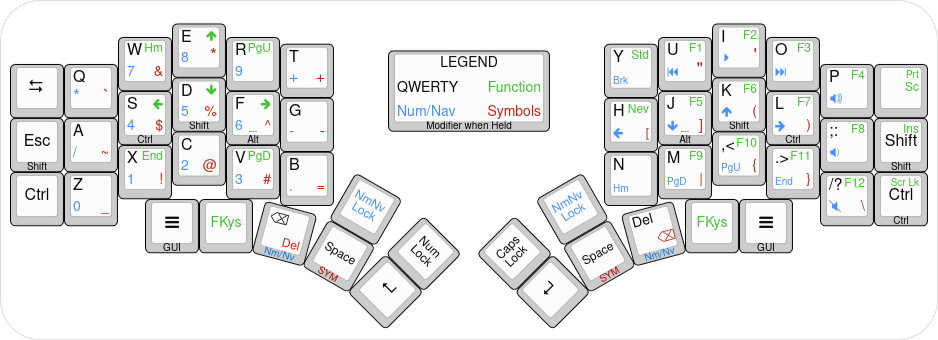
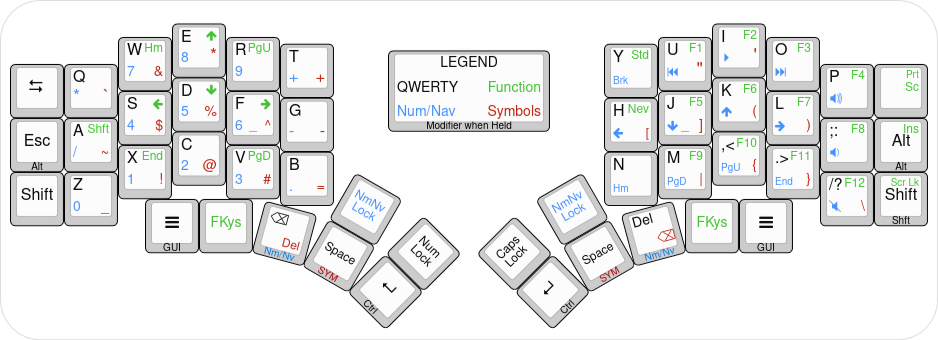
Move func shift and correct layout json & png.

diff --git a/keyboards/splitkb/kyria/keymaps/nevp/keymap.c b/keyboards/splitkb/kyria/keymaps/nevp/keymap.c
@@ -37,103 +37,39 @@ enum layers {
 #define NUMNEV   TG(_NUMNAV_NEV)
 #define FKYNEV   MO(_FUNCTION_NEV)
 
-#define SFT_ESC MT(MOD_LSFT, KC_ESC)
+#define ALT_ESC MT(MOD_LALT, KC_ESC)
 
 // For Thumb Cluster
-#define GUI_MNU MT(MOD_LGUI, KC_APP)
-#define NUM_DEL LT(_NUMNAV, KC_DEL)
-#define NUM_BSP LT(_NUMNAV, KC_BSPC)
-#define SYM_SPC LT(_SYMBOL, KC_SPC)
-#define NUM_D_N LT(_NUMNAV_NEV, KC_DEL)
-#define NUM_B_N LT(_NUMNAV_NEV, KC_BSPC)
-#define SYM_S_N LT(_SYMBOL_NEV, KC_SPC)
+#define LCTL_ENT MT(MOD_LCTL, KC_ENT)
+#define RCTL_ENT MT(MOD_RCTL, KC_ENT)
+#define  GUI_MNU MT(MOD_LGUI, KC_APP)
+#define  NUM_DEL LT(_NUMNAV, KC_DEL)
+#define  NUM_BSP LT(_NUMNAV, KC_BSPC)
+#define  SYM_SPC LT(_SYMBOL, KC_SPC)
+#define  NUM_D_N LT(_NUMNAV_NEV, KC_DEL)
+#define  NUM_B_N LT(_NUMNAV_NEV, KC_BSPC)
+#define  SYM_S_N LT(_SYMBOL_NEV, KC_SPC)
 
 // For QWERTY layer
-#define CTL_S    MT(MOD_LCTL, KC_S)
-#define SFT_D    MT(MOD_LSFT, KC_D)
-#define ALT_F    MT(MOD_LALT, KC_F)
-#define ALT_J    MT(MOD_LALT, KC_J)
-#define SFT_K    MT(MOD_RSFT, KC_K)
-#define CTL_L    MT(MOD_RCTL, KC_L)
 
 // For QWERTY_NEV layer
-#define ALT_H    MT(MOD_LALT, KC_H)
-#define SFT_J    MT(MOD_RSFT, KC_J)
-#define CTL_K    MT(MOD_RCTL, KC_K)
-#define SFT_SC   MT(MOD_RSFT, KC_SCLN)
-#define CTL_SL   MT(MOD_RCTL, KC_SLSH)
+#define ALT_SC   MT(MOD_RALT, KC_SCLN)
+#define SFT_SL   MT(MOD_RSFT, KC_SLSH)
 
 // For NUMNAV layer
-#define CTL_P4   MT(MOD_LCTL, KC_P4)
-#define SFT_P5   MT(MOD_LSFT, KC_P5)
-#define ALT_P6   MT(MOD_LALT, KC_P6)
-#define ALT_DWN  MT(MOD_LALT, KC_DOWN)
-#define SFT_UP   MT(MOD_RSFT, KC_UP)
-#define CTL_RGT  MT(MOD_RCTL, KC_RGHT)
 
 // For NUMNAV_NEV layer
-#define ALT_LFT  MT(MOD_LALT, KC_LEFT)
-#define SFT_DWN  MT(MOD_RSFT, KC_DOWN)
-#define CTL_UP   MT(MOD_RCTL, KC_UP)
-#define SFT_VLD  MT(MOD_RSFT, KC_VOLD)
+#define ALT_VLD  MT(MOD_RALT, KC_VOLD)
+#define SFT_MUT  MT(MOD_RSFT, KC_MUTE)
 
 // For SYMBOL layer
-#define CTL_DLR  MT(MOD_LCTL, KC_DLR)
-#define SFT_PRC  MT(MOD_LSFT, KC_PERC)
-#define ALT_CRC  MT(MOD_LALT, KC_CIRC)
-#define ALT_RBR  MT(MOD_LALT, KC_RBRC)
-#define SFT_LPN  MT(MOD_LSFT, KC_LPRN)
-#define CTL_RPN  MT(MOD_RCTL, KC_RPRN)
 
 // For SYMBOL_NEV layer
-#define ALT_LBR  MT(MOD_LALT, KC_LBRC)
-#define SFT_RBR  MT(MOD_LSFT, KC_RBRC)
-#define CTL_LPN  MT(MOD_RCTL, KC_LPRN)
-#define CTL_BSL  MT(MOD_RCTL, KC_BSLS)
+#define SFT_BSL  MT(MOD_RSFT, KC_BSLS)
 
 // For FUNCTION layer
-#define CTL_LFT  MT(MOD_LCTL, KC_LEFT)
-#define ALT_RGT  MT(MOD_LALT, KC_RGHT)
-#define ALT_F5   MT(MOD_LALT, KC_F5)
-#define SFT_F6   MT(MOD_LSFT, KC_F6)
-#define CTL_F7   MT(MOD_RCTL, KC_F7)
-#define SFT_INS  MT(MOD_RSFT, KC_INS)
-#define CTL_SCL   MT(MOD_RCTL, KC_SCRL)
-
-// Note:
-// The notation `mod/tap` denotes a key that activates the modifier `mod` when held down, and
-// produces the key `tap` when tapped (i.e. pressed and released).
-
-// Intercepts non-basic keycodes for use with mod-tap.
-bool process_record_user(uint16_t keycode, keyrecord_t *record) {
-    switch (keycode) {
-        case CTL_DLR:
-            if (record->tap.count && record->event.pressed) {
-                tap_code16(KC_DLR); // Send KC_DLR on tap
-                return false;        // Return false to ignore further processing of key
-            }
-            break;
-        case SFT_PRC:
-            if (record->tap.count && record->event.pressed) {
-                tap_code16(KC_PERC); // Send KC_PERC on tap
-                return false;        // Return false to ignore further processing of key
-            }
-            break;
-        case ALT_CRC:
-            if (record->tap.count && record->event.pressed) {
-                tap_code16(KC_CIRC); // Send KC_CIRC on tap
-                return false;        // Return false to ignore further processing of key
-            }
-            break;
-        case CTL_LPN:
-            if (record->tap.count && record->event.pressed) {
-                tap_code16(KC_LPRN); // Send KC_LPRN on tap
-                return false;        // Return false to ignore further processing of key
-            }
-            break;
-    }
-    return true;
-}
+#define ALT_INS  MT(MOD_RALT, KC_INS)
+#define SFT_SCL  MT(MOD_RSFT, KC_SCRL)
 
 // clang-format off
 const uint16_t PROGMEM keymaps[][MATRIX_ROWS][MATRIX_COLS] = {
@@ -143,9 +79,9 @@ const uint16_t PROGMEM keymaps[][MATRIX_ROWS][MATRIX_COLS] = {
  * ,-------------------------------------------.                              ,-----------------------------------------.
  * |  Tab   |   Q  |   W  |   E  |   R  |   T  |                              |   Y  |   U  |   I  |   O  |   P  |      |
  * |--------+------+------+------+------+------|                              |------+------+------+------+------+------|
- * |Shft/Esc| GUI/A| Alt/S|Ctrl/D|Shft/F|   G  |                              |   H  | Alt/J|Shft/K| GUI/L|Ctl/;:| Shft |
+ * | Alt/Esc|   A  |   S  |   D  |   F  |   G  |                              |   H  |   J  |   K  |   L  |   ;: |  Alt |
  * |--------+------+------+------+------+------+-------------.  ,-------------+------+------+------+------+------+------|
- * |  CTRL  |   Z  |   X  |   C  |   V  |   B  |NumNav| NumLk|  |CapsLk|NumNav|   N  |   M  | ,  < | . >  | /  ? | CTRL |
+ * |  SHFT  |   Z  |   X  |   C  |   V  |   B  |NumNav| NumLk|  |CapsLk|NumNav|   N  |   M  | ,  < | . >  | / ?  | Shft |
  * |        |      |      |      |      |      | Lock |      |  |      | Lock |      |      |      |      |      |      |
  * `----------------------+------+------+------+------+------|  |------+------+------+------+------+--------------------'
  *                        | GUI/ |F-Keys|NUMNAV| SYM/ | Enter|  | Enter| SYM/ |NUMNAV|F-Keys| GUI/ |
@@ -153,10 +89,10 @@ const uint16_t PROGMEM keymaps[][MATRIX_ROWS][MATRIX_COLS] = {
  *                        `----------------------------------'  `----------------------------------'
  */
     [_QWERTY] = LAYOUT(
-      KC_TAB,   KC_Q,   KC_W,   KC_E,   KC_R,   KC_T,                                      KC_Y,   KC_U,   KC_I,   KC_O,   KC_P,XXXXXXX,
-     SFT_ESC,   KC_A,  CTL_S,  SFT_D,  ALT_F,   KC_G,                                      KC_H,  ALT_J,  SFT_K,  CTL_L,KC_SCLN,KC_RSFT,
-     KC_LCTL,   KC_Z,   KC_X,   KC_C,   KC_V,   KC_B, NUMNAV, KC_NUM,    KC_CAPS,NUMNAV,   KC_N,   KC_M,KC_COMM, KC_DOT,KC_SLSH,KC_RCTL,
-                            GUI_MNU, FKYNEV,NUM_BSP,SYM_SPC, KC_ENT,    KC_ENT,SYM_SPC,NUM_DEL, FKYNEV,GUI_MNU
+      KC_TAB,   KC_Q,   KC_W,   KC_E,   KC_R,   KC_T,                                       KC_Y,   KC_U,   KC_I,   KC_O,   KC_P,XXXXXXX,
+     ALT_ESC,   KC_A,   KC_S,   KC_D,   KC_F,   KC_G,                                       KC_H,   KC_J,   KC_K,   KC_L,KC_SCLN,KC_RALT,
+     KC_LSFT,   KC_Z,   KC_X,   KC_C,   KC_V,   KC_B, NUMNAV, KC_NUM,    KC_CAPS, NUMNAV,   KC_N,   KC_M,KC_COMM, KC_DOT,KC_SLSH,KC_RSFT,
+                             GUI_MNU, FKYNEV,NUM_BSP,SYM_SPC,LCTL_ENT,  RCTL_ENT,SYM_SPC,NUM_DEL, FKYNEV,GUI_MNU
     ),
 
 /*
@@ -165,20 +101,20 @@ const uint16_t PROGMEM keymaps[][MATRIX_ROWS][MATRIX_COLS] = {
  * ,-------------------------------------------.                              ,-----------------------------------------.
  * |  Tab   |   Q  |   W  |   E  |   R  |   T  |                              |      |   Y  |   U  |   I  |   O  |   P  |
  * |--------+------+------+------+------+------|                              |------+------+------+------+------+------|
- * |Shft/Esc| GUI/A| Alt/S|Ctrl/D|Shft/F|   G  |                              |      | Alt/H|Shft/J| GUI/K|Ctrl/L|Sft/;:|
+ * | Alt/Esc|   A  |   S  |   D  |   F  |   G  |                              |      |   H  |   J  |   K  |   L  |Alt/;:|
  * |--------+------+------+------+------+------+-------------.  ,-------------+------+------+------+------+------+------|
- * |  CTRL  |   Z  |   X  |   C  |   V  |   B  |NumNav| NumLk|  |CapsLk|NumNav|      |   N  |   M  | ,  < | . >  | / ?  |
- * |        |      |      |      |      |      | Lock |      |  |      | Lock |      |      |      |      |      |/CTRL |
+ * |  SHFT  |   Z  |   X  |   C  |   V  |   B  |NumNav| NumLk|  |CapsLk|NumNav|      |   N  |   M  | ,  < | . >  | Shft/|
+ * |        |      |      |      |      |      | Lock |      |  |      | Lock |      |      |      |      |      | / ?  |
  * `----------------------+------+------+------+------+------|  |------+------+------+------+------+--------------------'
  *                        | GUI/ |F-Keys|NUMNAV| SYM/ | Enter|  | Enter| SYM/ |NUMNAV|F-Keys| GUI/ |
  *                        | Menu |      |/BkSpc| Space|      |  |      | Space| /Del |      | Menu |
  *                        `----------------------------------'  `----------------------------------'
  */
     [_QWERTY_NEV] = LAYOUT(
-      KC_TAB,   KC_Q,   KC_W,   KC_E,   KC_R,   KC_T,                                   XXXXXXX,   KC_Y,   KC_U,   KC_I,   KC_O,   KC_P,
-     SFT_ESC,   KC_A,  CTL_S,  SFT_D,  ALT_F,   KC_G,                                   XXXXXXX,  ALT_H,  SFT_J,  CTL_K,   KC_L, SFT_SC,
-     KC_LCTL,   KC_Z,   KC_X,   KC_C,   KC_V,   KC_B, NUMNAV, KC_NUM,    KC_CAPS,NUMNAV,XXXXXXX,   KC_N,   KC_M,KC_COMM, KC_DOT, CTL_SL,
-                            GUI_MNU,  FKEYS,NUM_B_N,SYM_S_N, KC_ENT,    KC_ENT,SYM_S_N,NUM_D_N,  FKEYS,GUI_MNU
+      KC_TAB,   KC_Q,   KC_W,   KC_E,   KC_R,   KC_T,                                    XXXXXXX,   KC_Y,   KC_U,   KC_I,   KC_O,   KC_P,
+     ALT_ESC,   KC_A,   KC_S,   KC_D,   KC_F,   KC_G,                                    XXXXXXX,   KC_H,   KC_J,   KC_K,   KC_L, ALT_SC,
+     KC_LSFT,   KC_Z,   KC_X,   KC_C,   KC_V,   KC_B, NUMNAV, KC_NUM,    KC_CAPS, NUMNAV,XXXXXXX,   KC_N,   KC_M,KC_COMM, KC_DOT, SFT_SL,
+                             GUI_MNU,  FKEYS,NUM_B_N,SYM_S_N,LCTL_ENT,  RCTL_ENT,SYM_S_N,NUM_D_N,  FKEYS,GUI_MNU
     ),
 
 /*
@@ -187,8 +123,7 @@ const uint16_t PROGMEM keymaps[][MATRIX_ROWS][MATRIX_COLS] = {
  * ,-------------------------------------------.                              ,-----------------------------------------.
  * |        |   *  |   7  |   8  |   9  |   +  |                              | Break|M Prev|M Play|M Next|VolUp |      |
  * |--------+------+------+------+------+------|                              |------+------+------+------+------+------|
- * |        |Ctrl//| GUI/4|Shft/5| Alt/6|   -  |                              |   ←  | Alt/↓|Shft/↑| GUI/→| Ctrl/|      |
- * |        |      |      |      |      |      |                              |      |      |      |      | VolDn|      |
+ * |        |   /  |   4  |   5  |   6  |   -  |                              |   ←  |   ↓  |   ↑  |   →  |VolDn |      |
  * |--------+------+------+------+------+------+-------------.  ,-------------+------+------+------+------+------+------|
  * |        |   0  |   1  |   2  |   3  |   .  |      |      |  |      |      | Home | PgDn | PgUp |  End |VolMut|      |
  * `----------------------+------+------+------+------+------|  |------+------+------+------+------+--------------------'
@@ -197,7 +132,7 @@ const uint16_t PROGMEM keymaps[][MATRIX_ROWS][MATRIX_COLS] = {
  */
     [_NUMNAV] = LAYOUT(
      _______,KC_PAST,  KC_P7,  KC_P8,  KC_P9,KC_PPLS,                                   KC_BRK ,KC_MPRV,KC_MPLY,KC_MNXT,KC_VOLU,_______,
-     _______,KC_PSLS, CTL_P4, SFT_P5, ALT_P6,KC_PMNS,                                   KC_LEFT,ALT_DWN, SFT_UP,CTL_RGT,KC_VOLD,_______,
+     _______,KC_PSLS,  KC_P4,  KC_P5,  KC_P6,KC_PMNS,                                   KC_LEFT,KC_DOWN,  KC_UP,KC_RGHT,KC_VOLD,_______,
      _______,  KC_P0,  KC_P1,  KC_P2,  KC_P3,KC_PDOT,_______,_______,   _______,_______,KC_HOME,KC_PGDN,KC_PGUP, KC_END,KC_MUTE,_______,
                              _______,_______,_______,_______,_______,   _______,_______,_______,_______,_______
     ),
@@ -208,18 +143,19 @@ const uint16_t PROGMEM keymaps[][MATRIX_ROWS][MATRIX_COLS] = {
  * ,-------------------------------------------.                              ,-----------------------------------------.
  * |        |   *  |   7  |   8  |   9  |   +  |                              |      | Break|M Prev|M Play|M Next|VolUp |
  * |--------+------+------+------+------+------|                              |------+------+------+------+------+------|
- * |        |Ctrl//| GUI/4|Shft/5| Alt/6|   -  |                              |      | Alt/←|Shft/↓| GUI/↑|Ctrl/→|  Sft/|
+ * |        |   /  |   4  |   5  |   6  |   -  |                              |      |   ←  |   ↓  |   ↑  |   →  |  Alt/|
  * |        |      |      |      |      |      |                              |      |      |      |      |      | VolDn|
  * |--------+------+------+------+------+------+-------------.  ,-------------+------+------+------+------+------+------|
- * |        |   0  |   1  |   2  |   3  |   .  |      |      |  |      |      |      | Home | PgDn | PgUp |  End |VolMut|
+ * |        |   0  |   1  |   2  |   3  |   .  |      |      |  |      |      |      | Home | PgDn | PgUp |  End |  Sft/|
+ * |        |      |      |      |      |      |                              |      |      |      |      |      |VolMut|
  * `----------------------+------+------+------+------+------|  |------+------+------+------+------+--------------------'
  *                        |      |      |      |      |      |  |      |      |      |      |      |
  *                        `----------------------------------'  `----------------------------------'
  */
     [_NUMNAV_NEV] = LAYOUT(
      _______,KC_PAST,  KC_P7,  KC_P8,  KC_P9,KC_PPLS,                                   _______,KC_BRK ,KC_MPRV,KC_MPLY,KC_MNXT,KC_VOLU,
-     _______,KC_PSLS, CTL_P4, SFT_P5, ALT_P6,KC_PMNS,                                   _______,ALT_LFT,SFT_DWN, CTL_UP,KC_RGHT,SFT_VLD,
-     _______,  KC_P0,  KC_P1,  KC_P2,  KC_P3,KC_PDOT,_______,_______,   _______,_______,_______,KC_HOME,KC_PGDN,KC_PGUP, KC_END,KC_MUTE,
+     _______,KC_PSLS,  KC_P4,  KC_P5,  KC_P6,KC_PMNS,                                   _______,KC_LEFT,KC_DOWN,  KC_UP,KC_RGHT,ALT_VLD,
+     _______,  KC_P0,  KC_P1,  KC_P2,  KC_P3,KC_PDOT,_______,_______,   _______,_______,_______,KC_HOME,KC_PGDN,KC_PGUP, KC_END,SFT_MUT,
                              _______,_______,_______,_______,_______,   _______,_______,_______,_______,_______
     ),
 
@@ -229,7 +165,7 @@ const uint16_t PROGMEM keymaps[][MATRIX_ROWS][MATRIX_COLS] = {
  * ,-------------------------------------------.                              ,-----------------------------------------.
  * |    `   |   `  |   &  |   *  |      |   +  |                              |      |   "  |   '  |      |      |      |
  * |--------+------+------+------+------+------|                              |------+------+------+------+------+------|
- * |        |Ctrl/~| GUI/#|Shft/%| Alt/^|   -  |                              |   [  | Alt/]|Shft/(| GUI/)| Ctrl |      |
+ * |        |   ~  |   #  |   %  |   ^  |   -  |                              |   [  |   ]  |   (  |   )  |      |      |
  * |--------+------+------+------+------+------+-------------.  ,-------------+------+------+------+------+------+------|
  * |        |   _  |   !  |   @  |   $  |   =  |      |      |  |      |      |      |  |   |  {   |  }   |  \   |      |
  * `----------------------+------+------+------+------+------|  |------+------+------+------+------+--------------------'
@@ -239,7 +175,7 @@ const uint16_t PROGMEM keymaps[][MATRIX_ROWS][MATRIX_COLS] = {
  */
     [_SYMBOL] = LAYOUT(
      _______, KC_GRV,KC_AMPR,KC_ASTR,XXXXXXX,KC_PLUS,                                   XXXXXXX,KC_DQUO,KC_QUOT,XXXXXXX,XXXXXXX,_______,
-     _______,KC_TILD,CTL_DLR,SFT_PRC,ALT_CRC,KC_MINS,                                   KC_LBRC,ALT_RBR,SFT_LPN,CTL_RPN,XXXXXXX,_______,
+     _______,KC_TILD, KC_DLR,KC_PERC,KC_CIRC,KC_MINS,                                   KC_LBRC,KC_RBRC,KC_LPRN,KC_RPRN,XXXXXXX,_______,
      _______,KC_UNDS,KC_EXLM, KC_AT ,KC_HASH, KC_EQL,_______,_______,   _______,_______,XXXXXXX,KC_PIPE,KC_LCBR,KC_RCBR,KC_BSLS,_______,
                              _______,_______,NUM_DEL,_______,_______,   _______,_______,NUM_BSP,_______,_______
    ),
@@ -250,9 +186,9 @@ const uint16_t PROGMEM keymaps[][MATRIX_ROWS][MATRIX_COLS] = {
  * ,-------------------------------------------.                              ,-----------------------------------------.
  * |    `   |   `  |   &  |   *  |      |   +  |                              |      |      |   "  |   '  |      |      |
  * |--------+------+------+------+------+------|                              |------+------+------+------+------+------|
- * |        |Ctrl/~| GUI/#|Shft/%| Alt/^|   -  |                              |      | Alt/[|Shft/]| GUI/(|Ctrl/)| Shft |
+ * |        |   ~  |   #  |   %  |   ^  |   -  |                              |      |   [  |   ]  |   (  |   )  |  Alt |
  * |--------+------+------+------+------+------+-------------.  ,-------------+------+------+------+------+------+------|
- * |        |   _  |   !  |   @  |   $  |   =  |      |      |  |      |      |      |      |  |   |  {   |  }   |  \   |
+ * |        |   _  |   !  |   @  |   $  |   =  |      |      |  |      |      |      |      |  |   |  {   |  }   |Sft/ \|
  * `----------------------+------+------+------+------+------|  |------+------+------+------+------+--------------------'
  *                        |      |      |NUMNAV|      |      |  |      |      |NUMNAV|      |      |
  *                        |      |      | /Del |      |      |  |      |      |/BkSpc|      |      |
@@ -260,8 +196,8 @@ const uint16_t PROGMEM keymaps[][MATRIX_ROWS][MATRIX_COLS] = {
  */
     [_SYMBOL_NEV] = LAYOUT(
      _______, KC_GRV,KC_AMPR,KC_ASTR,XXXXXXX,KC_PLUS,                                   _______,XXXXXXX,KC_DQUO,KC_QUOT,XXXXXXX,XXXXXXX,
-     _______,KC_TILD,CTL_DLR,SFT_PRC,ALT_CRC,KC_MINS,                                   _______,ALT_LBR,SFT_RBR,CTL_LPN,KC_RPRN,KC_RSFT,
-     _______,KC_UNDS,KC_EXLM, KC_AT ,KC_HASH, KC_EQL,_______,_______,   _______,_______,_______,XXXXXXX,KC_PIPE,KC_LCBR,KC_RCBR,CTL_BSL,
+     _______,KC_TILD, KC_DLR,KC_PERC,KC_CIRC,KC_MINS,                                   _______,KC_LBRC,KC_RBRC,KC_LPRN,KC_RPRN,KC_RALT,
+     _______,KC_UNDS,KC_EXLM, KC_AT ,KC_HASH, KC_EQL,_______,_______,   _______,_______,_______,XXXXXXX,KC_PIPE,KC_LCBR,KC_RCBR,SFT_BSL,
                              _______,_______,NUM_D_N,_______,_______,   _______,_______,NUM_B_N,_______,_______
    ),
 
@@ -271,24 +207,25 @@ const uint16_t PROGMEM keymaps[][MATRIX_ROWS][MATRIX_COLS] = {
  * ,------------------------------------------.                              ,------------------------------------------.
  * |       |      | Home |   ↑  | PgUp |      |                              |QWERTY|  F1  |  F2  |  F3  |  F4  | PrtScr|
  * |-------+------+------+------+------+------|                              |------+------+------+------+------+-------|
- * |       | Ctrl | GUI/←|Shft/↓| Alt/→|      |                              |QWTNev|Alt/F5|Sft/F6|GUI/F7|Ctl/F8|Sft/Ins|
+ * |       | Shft |   ←  |   ↓  |   →  |      |                              |QWTNev|  F5  |  F6  |  F7  |  F8  |Alt/Ins|
  * |-------+------+------+------+------+------+-------------.  ,-------------+------+------+------+------+------+-------|
- * |       |      |  End |      | PgDn |      |      |      |  |      |      |      |  F9  |  F10 |  F11 |  F12 | ScrLk |
+ * |       |      |  End |      | PgDn |      |      |      |  |      |      |      |  F9  |  F10 |  F11 |  F12 |  Sft/ |
+ * |       |      |      |      |      |      |                              |      |      |      |      |      | ScrLk |
  * `---------------------+------+------+------+------+------|  |------+------+------+------+------+---------------------'
  *                       |      |      |      |      |      |  |      |      |      |      |      |
  *                       `----------------------------------'  `----------------------------------'
  */
     [_FUNCTION] = LAYOUT(
      _______,XXXXXXX,KC_HOME,  KC_UP,KC_PGUP,XXXXXXX,                                    QWERTY,  KC_F1,  KC_F2,  KC_F3,  KC_F4,KC_PSCR,
-     _______,KC_LCTL,CTL_LFT,SFT_DWN,ALT_RGT,XXXXXXX,                                    QWTNEV, ALT_F5, SFT_F6, CTL_F7,  KC_F8,SFT_INS,
-     _______,XXXXXXX, KC_END,XXXXXXX,KC_PGDN,XXXXXXX,_______,_______,   _______,_______,_______,  KC_F9, KC_F10, KC_F11, KC_F12,CTL_SCL,
+     _______,KC_LSFT,KC_LEFT,KC_DOWN,KC_RGHT,XXXXXXX,                                    QWTNEV,  KC_F5,  KC_F6,  KC_F7,  KC_F8,ALT_INS,
+     _______,XXXXXXX, KC_END,XXXXXXX,KC_PGDN,XXXXXXX,_______,_______,   _______,_______,_______,  KC_F9, KC_F10, KC_F11, KC_F12,SFT_SCL,
                              _______,_______,_______,_______,_______,   _______,_______,_______,_______,_______
     ),
 
     [_FUNCTION_NEV] = LAYOUT(
      _______,XXXXXXX,KC_HOME,  KC_UP,KC_PGUP,XXXXXXX,                                    QWERTY,  KC_F1,  KC_F2,  KC_F3,  KC_F4,KC_PSCR,
-     _______,KC_LCTL,CTL_LFT,SFT_DWN,ALT_RGT,XXXXXXX,                                    QWTNEV, ALT_F5, SFT_F6, CTL_F7,  KC_F8,SFT_INS,
-     _______,XXXXXXX, KC_END,XXXXXXX,KC_PGDN,XXXXXXX,_______,_______,   _______,_______,_______,  KC_F9, KC_F10, KC_F11, KC_F12,CTL_SCL,
+     _______,KC_LSFT,KC_LEFT,KC_DOWN,KC_RGHT,XXXXXXX,                                    QWTNEV,  KC_F5,  KC_F6,  KC_F7,  KC_F8,ALT_INS,
+     _______,XXXXXXX, KC_END,XXXXXXX,KC_PGDN,XXXXXXX,_______,_______,   _______,_______,_______,  KC_F9, KC_F10, KC_F11, KC_F12,SFT_SCL,
                              _______,_______,_______,_______,_______,   _______,_______,_______,_______,_______
     ),
 

diff --git a/keyboards/splitkb/kyria/keymaps/nevp/config.h b/keyboards/splitkb/kyria/keymaps/nevp/config.h
@@ -32,7 +32,7 @@
 
 #define TAPPING_TOGGLE 2
 #define TAPPING_TERM 200
-#define HOLD_ON_OTHER_KEY_PRESS
+// #define HOLD_ON_OTHER_KEY_PRESS
 // #define PERMISSIVE_HOLD
 
 #define SPLIT_LAYER_STATE_ENABLE
